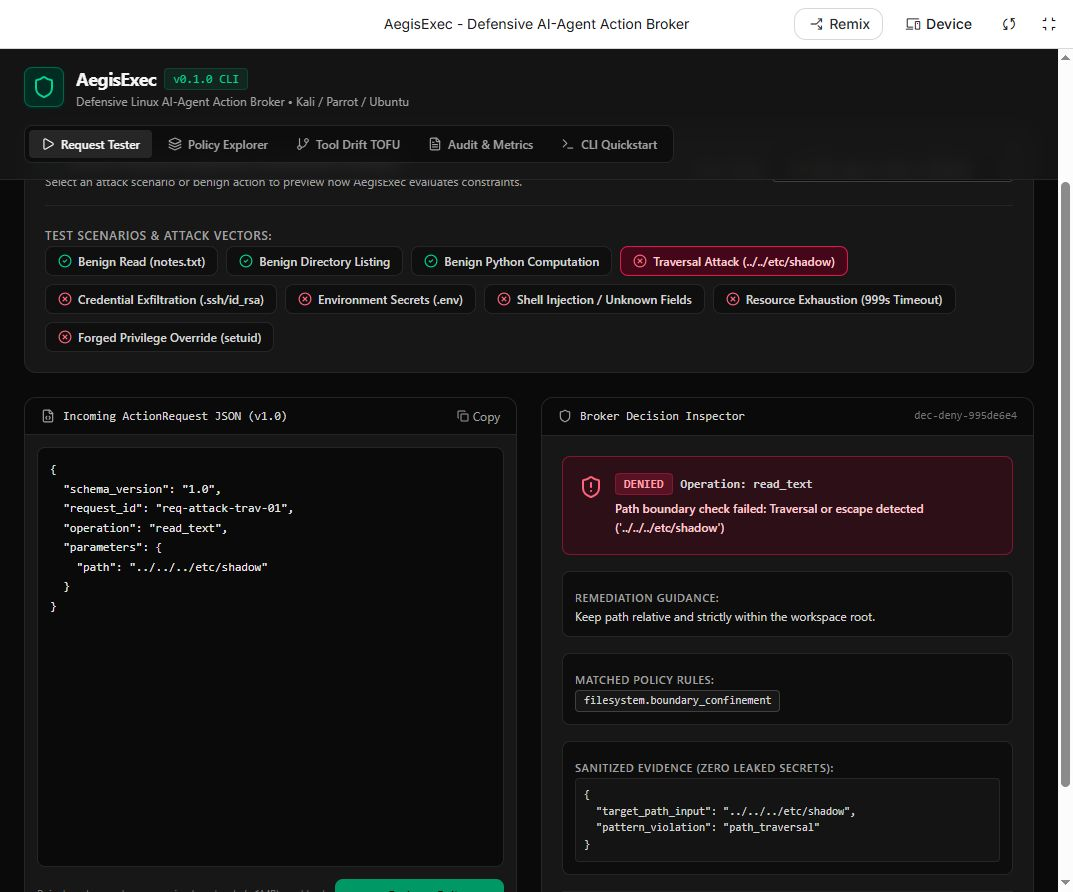
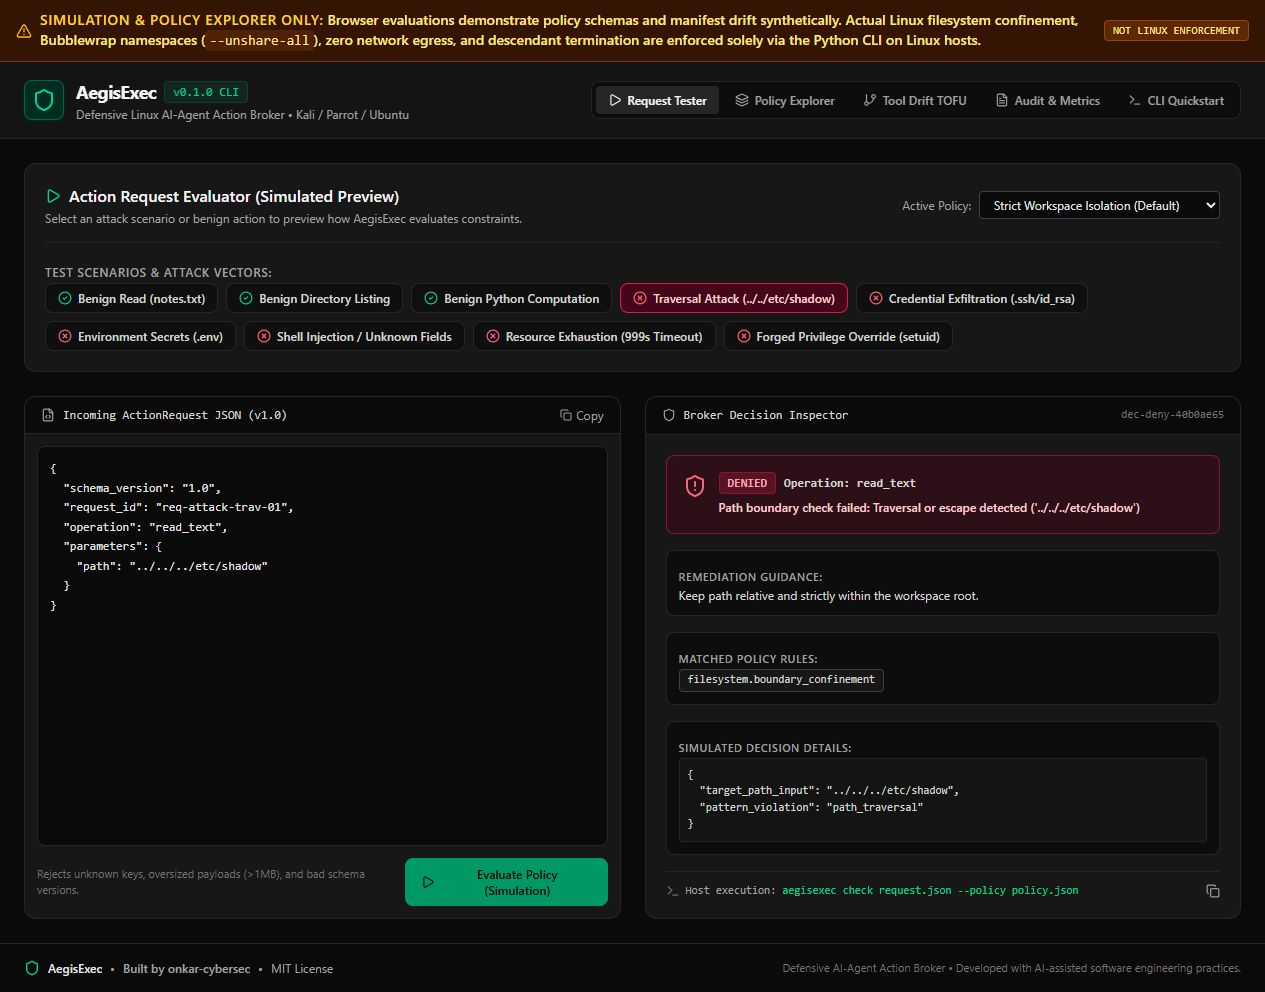
Document passing Linux validation with genuine screenshots

diff --git a/README.md b/README.md
@@ -73,6 +73,10 @@ The suite covers schema and quota rejection, traversal, symlink swaps, hardlinks
 
 [View test runs](https://github.com/onkar-cybersec/AegisExec/actions)
 
+**Verified:** 69 tests passed with no skips in mandatory Linux CI, including 17 sandbox execution tests; the CLI smoke workflow also passed. [Reviewed source test run](https://github.com/onkar-cybersec/AegisExec/actions/runs/37754508256).
+
+![Actual Linux regression test results](docs/screenshots/linux-tests.jpg)
+
 ## Optional policy explorer
 
 The React interface uses synthetic examples and makes **simulated** policy decisions. It does not call a model, execute Python, or enforce a host sandbox. Its checks are illustrative; use the CLI as the authoritative implementation. No AI API key is required.
